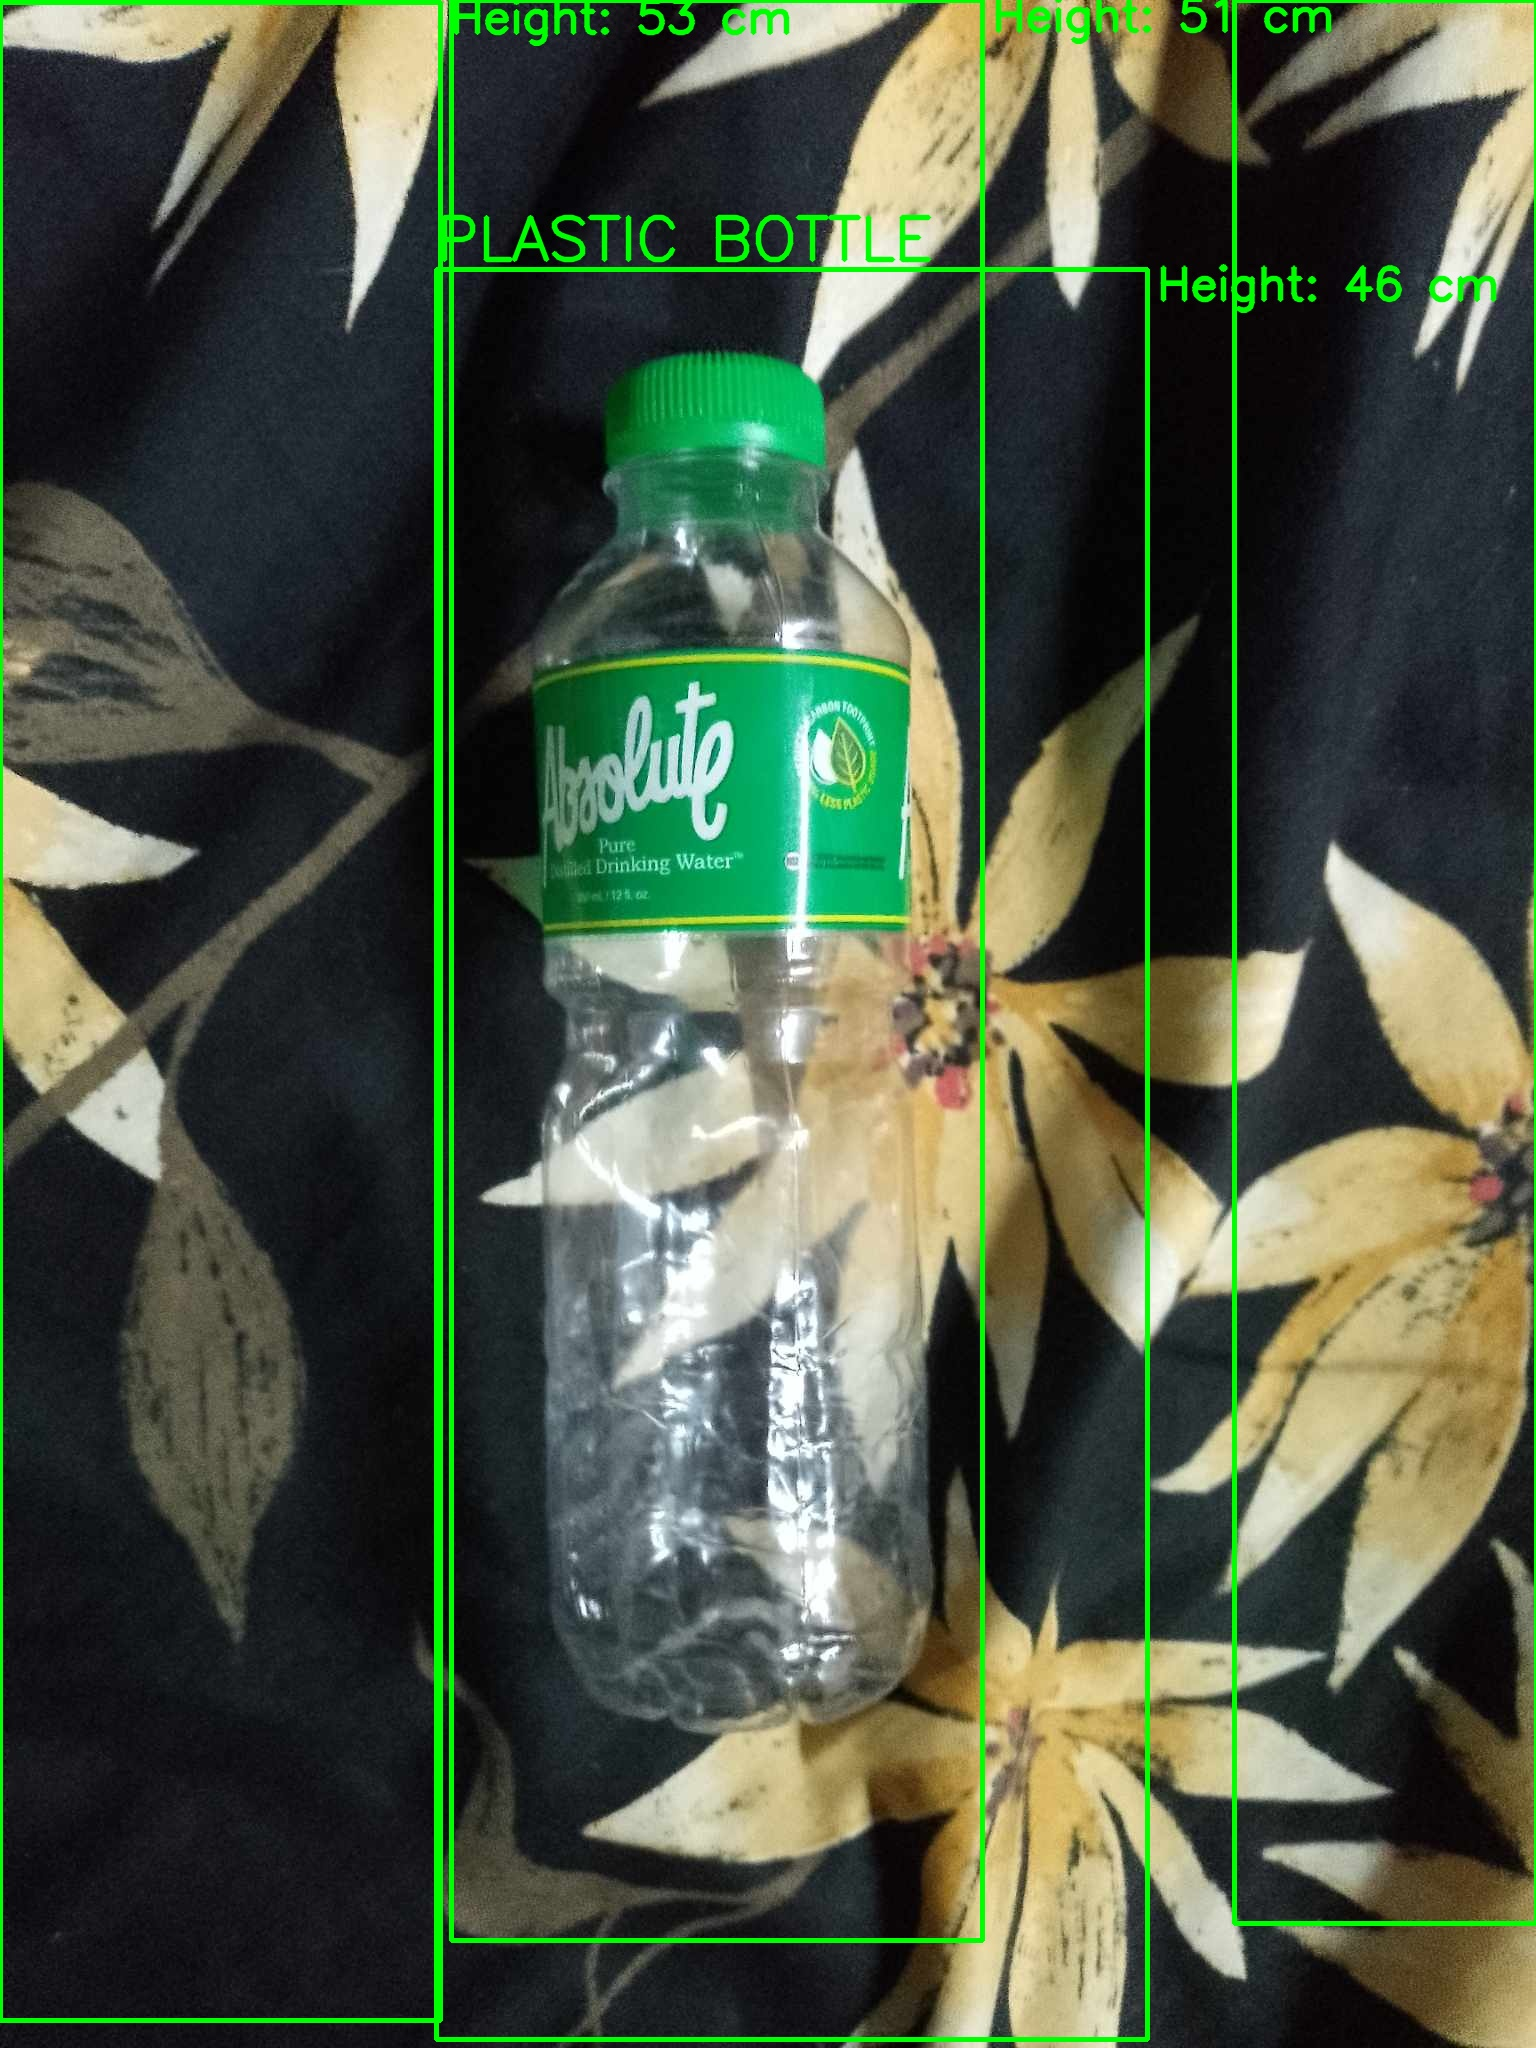
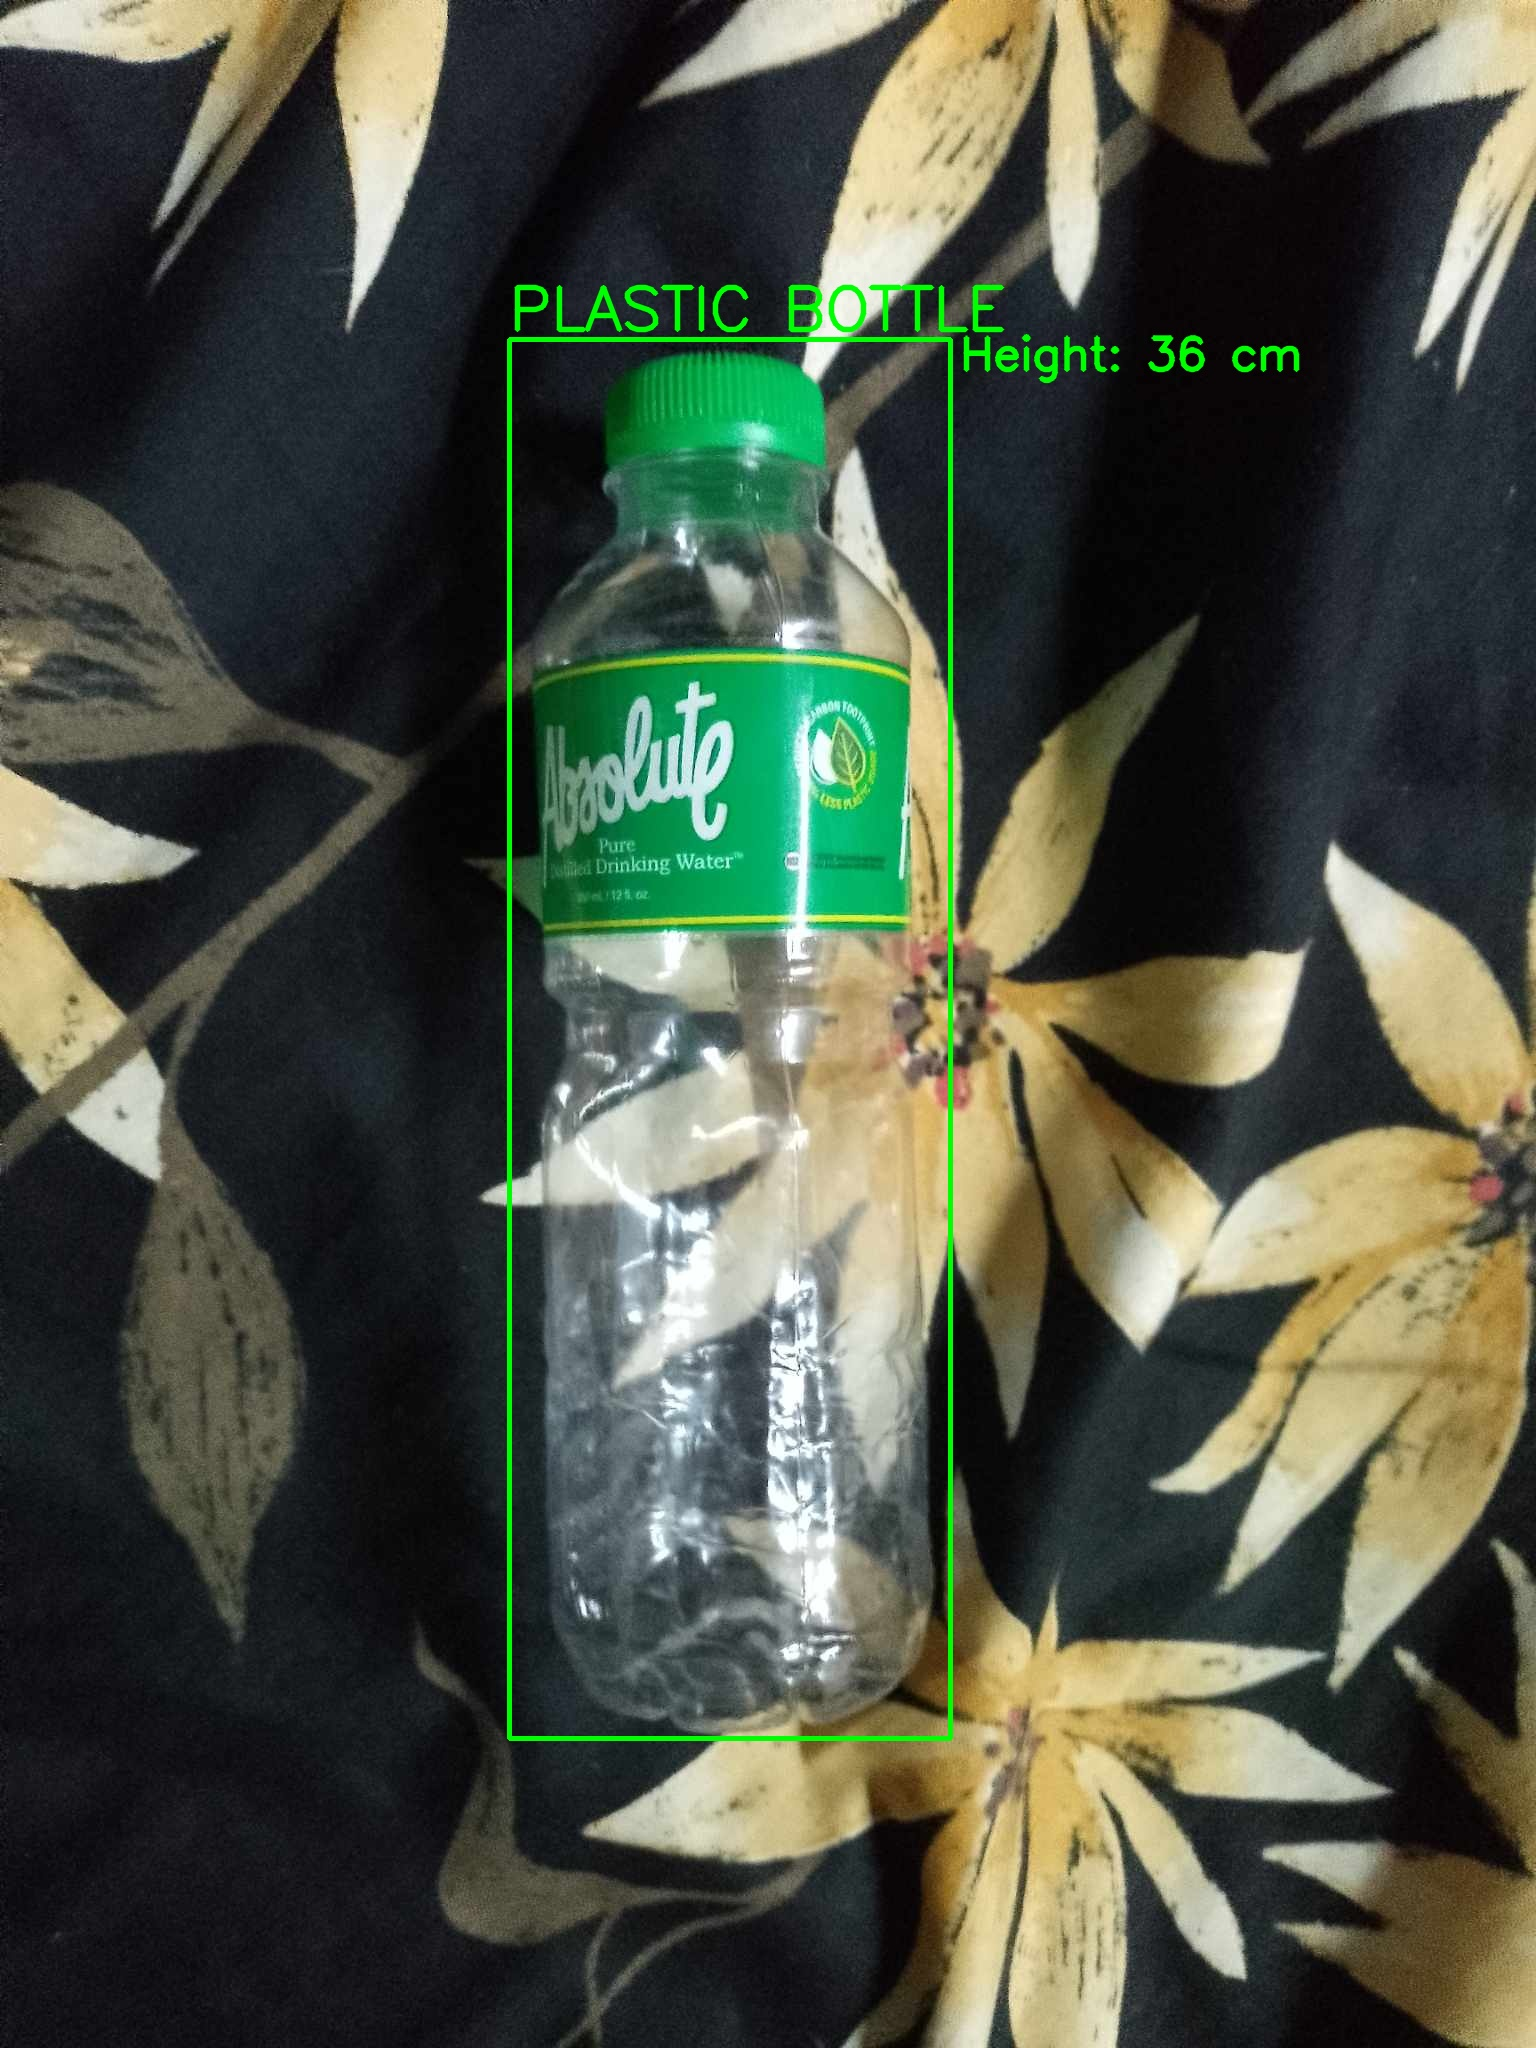
test lastest model

diff --git a/yolo/training/predict_image.py b/yolo/training/predict_image.py
@@ -12,7 +12,7 @@ os.makedirs(output_dir, exist_ok=True)
 
 # Path to the YOLO model weights
 model_path = os.path.join('.', 'yolo', 'training',
-                          'runs', 'detect', 'train', 'weights', 'best1.pt')
+                          'runs', 'detect', 'train', 'weights', 'best3.pt')
 
 # Load the YOLO model
 model = YOLO(model_path)
